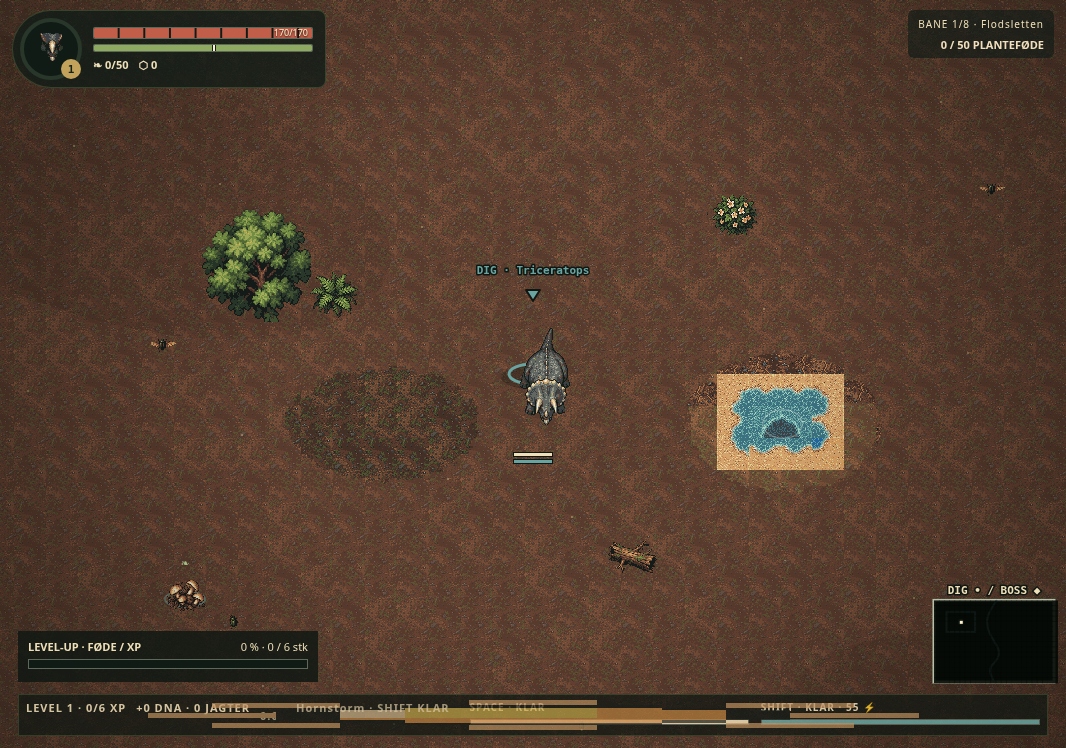
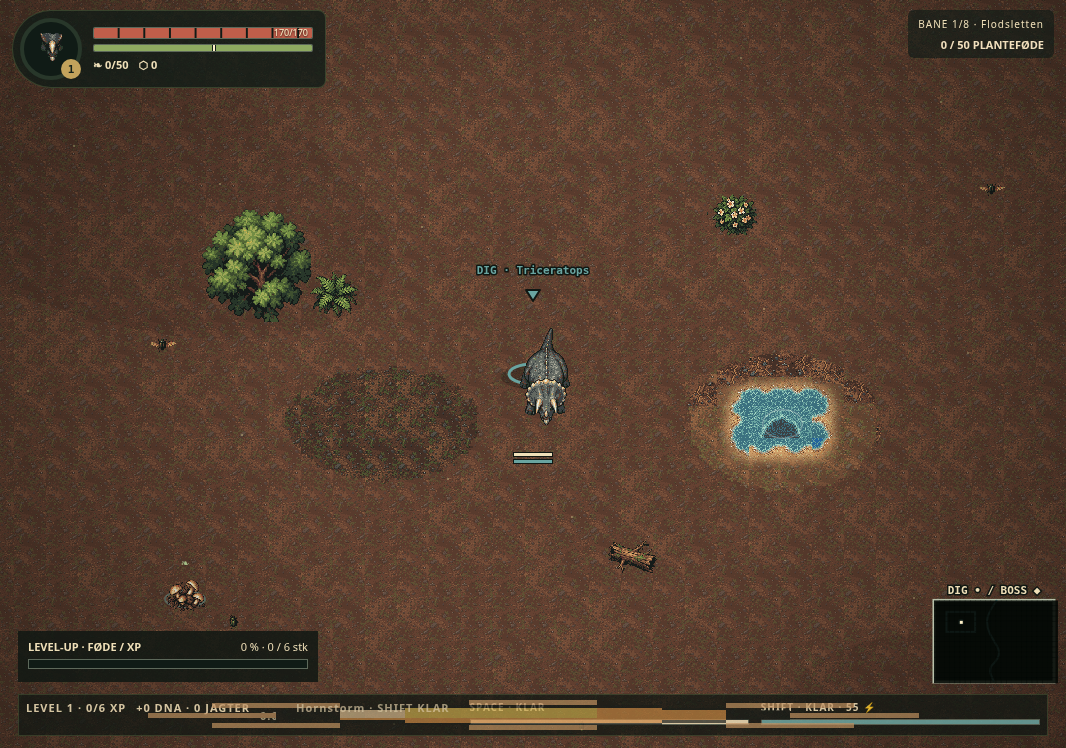
Blend authored shoreline land into native ground

Changed region(s): [[0.6501, 0.492, 0.8049, 0.6457]]

diff --git a/PRIMAL_RUN_Game/src/app.js b/PRIMAL_RUN_Game/src/app.js
@@ -610,6 +610,26 @@
     // Shared world-grid corners classify the same water/deep-water geometry as movement.
     // Cache vertices per map; render only viewport tiles, not the whole map each frame.
     const waterVertexCache=new WeakMap();
+    const shoreBlendCache=new Map();
+    const waterPixelColors=new Set(['59,65,68','60,113,128','105,164,160','162,212,193','232,236,225','44,90,110']);
+    function blendedShore(path,mask){
+      if(!C.FEATURES.shoreBlend||mask===15)return null;
+      if(shoreBlendCache.has(path))return shoreBlendCache.get(path);
+      if(!images[path]){loadImage(path).catch(()=>{});return null;}
+      const layer=document.createElement('canvas');layer.width=layer.height=32;layer.spritePath=path;layer.shoreBlend=true;
+      const lc=layer.getContext('2d');lc.imageSmoothingEnabled=false;drawAsset(lc,images[path],0,0);
+      const pixels=lc.getImageData(0,0,32,32),data=pixels.data;
+      const nw=mask&1?1:0,ne=mask&2?1:0,se=mask&4?1:0,sw=mask&8?1:0;
+      for(let y=0;y<32;y++)for(let x=0;x<32;x++){
+        const i=(y*32+x)*4;if(waterPixelColors.has(data[i]+','+data[i+1]+','+data[i+2]))continue;
+        // Adjacent tiles share these corner weights. Fade only authored land
+        // pixels into the ground; water, foam and the source PNGs stay intact.
+        const u=(x+.5)/32,v=(y+.5)/32,wet=(nw*(1-u)+ne*u)*(1-v)+(sw*(1-u)+se*u)*v;
+        const t=Math.min(1,wet/.65);data[i+3]=Math.round(255*t*t*(3-2*t));
+        if(!data[i+3])data[i]=data[i+1]=data[i+2]=0;
+      }
+      lc.putImageData(pixels,0,0);shoreBlendCache.set(path,layer);return layer;
+    }
     function waterCorner(stage,map,x,y){
       let cache=waterVertexCache.get(map);if(!cache){cache=new Map();waterVertexCache.set(map,cache);}
       const key=stage+':'+x+':'+y;if(cache.has(key))return cache.get(key);
@@ -623,7 +643,8 @@
         const wet=corners.reduce((m,v,i)=>m|(v>0?1<<i:0),0);if(!wet)continue;
         const deep=corners.reduce((m,v,i)=>m|(v===2?1<<i:0),0),family=wet===15&&deep?'water_depth':stage===1?'shore_sand':'shore_soil',mask=family==='water_depth'?deep:wet;
         const path='assets/water_transitions/'+family+'_'+String(mask).padStart(2,'0')+'.png';
-        sprite(path,x,y);count++;if(deep)deepCount++;
+        const shore=family==='water_depth'?null:blendedShore(path,mask);
+        if(shore)drawAsset(ctx,shore,x,y);else sprite(path,x,y);count++;if(deep)deepCount++;
       }
       canvas.dataset.waterTileCount=count;canvas.dataset.deepWaterTileCount=deepCount;
     }

diff --git a/PRIMAL_RUN_Game/src/core.js b/PRIMAL_RUN_Game/src/core.js
@@ -6,7 +6,7 @@
   'use strict';
   // Records/titles live in records.js; review pages that load only core.js keep working without them.
   const RECORDS = (typeof module === 'object' && module.exports ? require('./records.js') : globalThis.PrimalRecords) || null, PX_PER_METER = RECORDS ? RECORDS.PX_PER_METER : 20;
-  const FEATURES={nativeGround:true,presentationArt:true,spriteAtlas:true,bossReach:true,lavaCrossings:true,bossSignatures:true,dailyHunt:true,challenges:true,fishKing:true,scentTrails:true,drought:true,dayNight:true,raptorPack:true,packCalls:true,territorialNests:true,variedForage:true,speciesAttacks:true,stableIdle:true,limpAnimation:true,waterTiles:true,ecologyAnimations:true,injuredPoses:true,menuPilot:true,guideModels:true};
+  const FEATURES={shoreBlend:true,nativeGround:true,presentationArt:true,spriteAtlas:true,bossReach:true,lavaCrossings:true,bossSignatures:true,dailyHunt:true,challenges:true,fishKing:true,scentTrails:true,drought:true,dayNight:true,raptorPack:true,packCalls:true,territorialNests:true,variedForage:true,speciesAttacks:true,stableIdle:true,limpAnimation:true,waterTiles:true,ecologyAnimations:true,injuredPoses:true,menuPilot:true,guideModels:true};
   const WIDTH = 960, HEIGHT = 640, SAVE_KEY = 'primalRun.save.v1';
   const BITE_ANIMATION = { frames: 6, fps: 14, duration: 6 / 14, contactFrame: 3, contactTime: 3 / 14 };
   const STAGES = [

diff --git a/PRIMAL_RUN_Game/SHORE_BLEND.md b/PRIMAL_RUN_Game/SHORE_BLEND.md
@@ -1,0 +1,18 @@
+# Shore blending
+
+Opaque land in the native shore tiles made 32-pixel rectangles against the
+new darker ground. `FEATURES.shoreBlend` fades only the authored land pixels
+using bilinear weights from the existing shared wet/dry corners. Neighbouring
+tiles share the weights, so the transition follows the bank continuously.
+
+Original water/depth/foam colours stay opaque and byte-identical in the cached
+runtime layer. All source PNGs, masks, colliders, water classification and
+fishing rules remain unchanged. Rendering stays at native 32 pixels without
+image interpolation. At most 28 shore layers are cached, one per mixed mask
+and bank family. The old layer is available with the feature disabled.
+
+`tests/shore-blend-browser.cjs` checks soil and sand fades, original water/foam
+pixels, paused-state stability and rollback. Before/after screenshots are in
+`previews/shore_blend`; the standalone browser report is `shore_blend_runtime_report.json`.
+This is renderer verification, not a new visual approval of the existing tiles
+or a GDevelop editor export.

diff --git a/PRIMAL_RUN_Game/SPRITE_RULES_WATER_TILES.md b/PRIMAL_RUN_Game/SPRITE_RULES_WATER_TILES.md
@@ -28,3 +28,8 @@ dark water rather than flattening it into shallowblue. tools/validate_water_corn
 checks all48 corner assignments; trace(map.river) is independent of tiled base drawing.
 
 Runtime visual limitation: repeated foam/depth patterns can remain visibly tiled, especially in a straight test river. Corner topology and collision agreement are validated; organic seam/pattern polish still needs visual approval. Do not label these tiles seamless production art.
+
+Runtime shore blending: original exports remain opaque and immutable. The
+renderer may fade authored land pixels using shared mask-corner weights,
+without interpolating/resizing images or changing water/foam pixels. The
+shoreBlend flag restores the original layer; see SHORE_BLEND.md.
